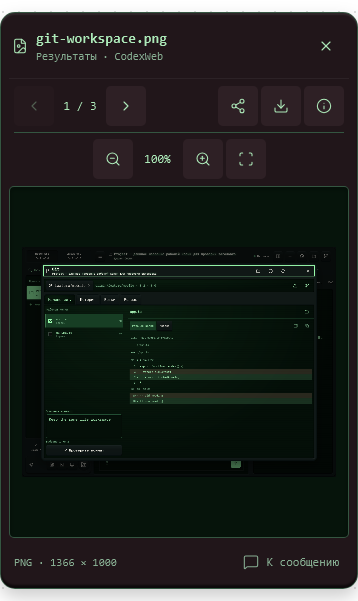
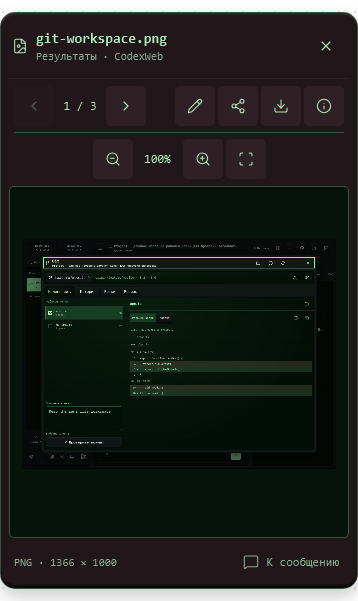
docs: define unified viewer editing and format tools

diff --git a/polish/05-files/viewer-study/viewer-study.html b/polish/05-files/viewer-study/viewer-study.html
@@ -15,11 +15,19 @@
       </div>
       <div class="vs-group vs-format-tools" aria-label="Инструменты формата"></div>
       <div class="vs-group vs-file-tools" aria-label="Действия с файлом">
-        <button type="button" data-action="edit" aria-label="Редактировать копию" data-tooltip="Редактировать копию" hidden><i data-lucide="pencil"></i></button>
+        <button type="button" data-action="edit" aria-label="Редактировать копию" aria-pressed="false" data-tooltip="Редактировать копию"><i data-lucide="pencil"></i></button>
         <button type="button" data-action="share" aria-label="Поделиться" data-tooltip="Поделиться"><i data-lucide="share-2"></i></button>
         <button type="button" data-action="save" aria-label="Сохранить файл" data-tooltip="Сохранить файл"><i data-lucide="download"></i></button>
         <button type="button" data-action="properties" aria-label="Свойства файла" aria-pressed="false" data-tooltip="Свойства"><i data-lucide="info"></i></button>
       </div>
+    </div>
+    <div class="vs-mode-rail" hidden>
+      <div class="vs-group" aria-label="Режим файла">
+        <button type="button" data-action="view" aria-pressed="false"><i data-lucide="eye" aria-hidden="true"></i>Просмотр</button>
+        <button type="button" data-action="write" aria-pressed="true"><i data-lucide="pencil" aria-hidden="true"></i>Правка</button>
+      </div>
+      <span class="vs-draft-state" role="status">Копия · без изменений</span>
+      <button type="button" data-action="saveDraft" aria-label="Сохранить копию" data-tooltip="Сохранить копию"><i data-lucide="save" aria-hidden="true"></i></button>
     </div>
     <div class="vs-body">
       <main class="vs-screen" aria-label="Содержимое файла"></main>
@@ -78,6 +86,19 @@
 #cw-viewer-study .vs-popover p{font-size:13px}
 #cw-viewer-study textarea{width:100%;height:280px;resize:vertical;font:16px/1.6 ui-monospace,monospace;background:var(--vs-paper);color:var(--vs-ink);border:1px solid var(--vs-edge);padding:12px}
 #cw-viewer-study .vs-case[data-expanded="true"] .vs-screen{min-height:460px}
+#cw-viewer-study .vs-mode-rail{display:flex;align-items:center;gap:8px;padding:5px;background:var(--vs-key);color:var(--vs-ink);border-radius:5px 5px 0 0}
+#cw-viewer-study .vs-draft-state{flex:1;text-align:right;font-size:11px;color:var(--vs-dim)}
+#cw-viewer-study .vs-format-tools{flex-wrap:wrap}
+#cw-viewer-study .vs-annotation{position:relative;width:100%;max-width:510px}
+#cw-viewer-study .vs-annotation>svg{position:absolute;inset:0;width:100%;height:100%;touch-action:none}
+#cw-viewer-study .vs-annotation[data-editing="false"]>svg{pointer-events:none}
+#cw-viewer-study .vs-annotation path{fill:none;stroke:#ffd45c;stroke-width:14;stroke-linecap:round;stroke-linejoin:round;stroke-opacity:.5}
+#cw-viewer-study .vs-annotation path[data-tool="pen"]{stroke:#ef7658;stroke-width:3;stroke-opacity:1}
+#cw-viewer-study .vs-annotation .vs-sheet{width:100%;margin:auto}
+#cw-viewer-study .vs-screen{transition:padding .18s;justify-content:flex-start}
+#cw-viewer-study .vs-screen:has(textarea){padding:8px}
+#cw-viewer-study .vs-book{align-self:stretch;white-space:pre-wrap;overflow-wrap:anywhere}
+@media(max-width:430px){#cw-viewer-study .vs-mode-rail{flex-wrap:wrap}#cw-viewer-study .vs-draft-state{min-width:70px}#cw-viewer-study .vs-mode-rail button{font-size:12px}}
 @media(max-width:650px){#cw-viewer-study .vs-wide{display:none}#cw-viewer-study .vs-toolbar{display:grid;grid-template-columns:1fr auto}#cw-viewer-study .vs-format-tools{grid-row:2;grid-column:1/-1;justify-content:center;border-top:1px solid var(--vs-edge);padding-top:6px}#cw-viewer-study .vs-file-navigation{border:0;padding:0}#cw-viewer-study .vs-body{position:relative}#cw-viewer-study .vs-properties{position:absolute;inset:0 0 0 auto;width:min(260px,100%);z-index:2;box-shadow:-5px 0 15px #0005}#cw-viewer-study .vs-screen{padding:12px;min-height:350px}#cw-viewer-study .vs-book{font-size:18px}#cw-viewer-study .vs-heading{padding-inline:3px}}
 @media(prefers-reduced-motion:reduce){#cw-viewer-study *{transition:none!important}}
 </style>
@@ -85,7 +106,10 @@
 (()=>{
 const root=document.getElementById('cw-viewer-study'),shell=root.querySelector('.vs-case'),screen=root.querySelector('.vs-screen'),tools=root.querySelector('.vs-format-tools');
 const files=[{name:'git-workspace.png',format:'PNG',kind:'image'},{name:'viewer-notes.pdf',format:'PDF',kind:'document'},{name:'chapter.md',format:'MD',kind:'book'}];
-let draftText='';
+let draftText=null;
+const sessions=files.map(()=>({active:false,dirty:false,marks:{},redo:{},tool:'marker'}));
+const textHistory=[],textRedo=[];
+let textSelection=[0,0],textScroll=0;
 const settings={theme:'green'},state={index:0,zoom:100,page:1,properties:false,source:false,editing:false};
 const saved=window.openai?.widgetState?.privateContent;
 if(saved&&Number.isInteger(saved.index)&&saved.index>=0&&saved.index<3)state.index=saved.index;
@@ -93,13 +117,66 @@ if(['green','2000','organizer','dark'].includes(saved?.theme))settings.theme=sav
 const icon=(action,label,name)=>`<button type="button" class="cursor-interaction" data-action="${action}" aria-label="${label}" data-tooltip="${label}"><i data-lucide="${name}" aria-hidden="true"></i></button>`;
 const bookText='Глава первая\n\nК вечеру мастерская опустела. На столе остались чертежи, карандаш и маленький экран с последней открытой страницей.\n\nОн убрал лишние инструменты. Теперь ничто не отвлекало от самой работы.';
 function remember(){window.openai?.setWidgetState?.({modelContent:{viewerFormat:files[state.index].format,theme:settings.theme,properties:state.properties},privateContent:{index:state.index,theme:settings.theme}})?.catch(()=>{});}
+function popover(title,text){root.querySelector('.vs-pop-title').textContent=title;root.querySelector('.vs-pop-text').textContent=text;root.querySelector('.vs-popover').hidden=false;}
+function editText(action){
+ const input=screen.querySelector('textarea');if(!input)return;
+ const before=input.value,from=input.selectionStart,to=input.selectionEnd,selected=before.slice(from,to);
+ if(action==='undo'){if(!textHistory.length)return;textRedo.push(before);draftText=textHistory.pop();}
+ else if(action==='redo'){if(!textRedo.length)return;textHistory.push(before);draftText=textRedo.pop();}
+ else{
+  const wrappers={bold:['**','**'],italic:['_','_'],link:['[','](https://)'],code:['`','`']};
+  const pair=wrappers[action];
+  const insert=pair?pair[0]+(selected||'текст')+pair[1]:({heading:'## ',list:'- ',check:'- [ ] '}[action]||'')+(selected||'текст');
+  textHistory.push(before);textRedo.length=0;draftText=before.slice(0,from)+insert+before.slice(to);textSelection=[from,from+insert.length];
+ }
+ sessions[state.index].dirty=true;render();screen.querySelector('textarea')?.focus();
+}
+function renderMode(f){
+ const s=sessions[state.index],rail=root.querySelector('.vs-mode-rail');
+ rail.hidden=!s.active;
+ root.querySelector('[data-action="edit"]').hidden=s.active;
+ root.querySelector('[data-action="view"]').setAttribute('aria-pressed',String(!state.editing));
+ root.querySelector('[data-action="write"]').setAttribute('aria-pressed',String(state.editing));
+ root.querySelector('.vs-draft-state').textContent='Копия · '+(s.dirty?'изменена':'без изменений');
+ if(f.kind==='book'&&s.active&&!state.source&&!state.editing){
+  screen.innerHTML='<article class="vs-book"></article>';screen.querySelector('article').textContent=draftText??bookText;
+ }
+ if(f.kind==='book'&&state.editing){
+  tools.innerHTML=icon('heading','Заголовок','heading-2')+icon('bold','Полужирный','bold')+icon('italic','Курсив','italic')+icon('list','Список','list')+icon('check','Задача','list-checks')+icon('link','Ссылка','link')+icon('code','Код','code')+icon('undo','Отменить изменение','undo-2')+icon('redo','Повторить изменение','redo-2');
+  const input=screen.querySelector('textarea');input.value=draftText??bookText;
+  input.setSelectionRange(...textSelection);input.scrollTop=textScroll;
+  input.onselect=()=>{textSelection=[input.selectionStart,input.selectionEnd];};
+  input.onscroll=()=>{textScroll=input.scrollTop;};
+  input.oninput=()=>{textHistory.push(draftText??bookText);textRedo.length=0;draftText=input.value;s.dirty=true;root.querySelector('.vs-draft-state').textContent='Копия · изменена';};
+ }
+ if(f.kind!=='book'){
+  const key=f.kind==='document'?state.page:0,marks=s.marks[key]??=[];
+  const wrapper=document.createElement('div');wrapper.className='vs-annotation';wrapper.dataset.editing=String(state.editing);
+  while(screen.firstChild)wrapper.append(screen.firstChild);screen.append(wrapper);
+  const ns='http://www.w3.org/2000/svg',svg=document.createElementNS(ns,'svg');
+  svg.setAttribute('viewBox','0 0 500 340');svg.setAttribute('preserveAspectRatio','none');svg.setAttribute('role','img');svg.setAttribute('aria-label','Разметка копии');
+  const paint=mark=>{const p=document.createElementNS(ns,'path');p.setAttribute('d',mark.d);p.dataset.tool=mark.tool;svg.append(p);return p;};
+  marks.forEach(paint);wrapper.append(svg);
+  if(state.editing){
+   tools.innerHTML=icon('marker','Маркер','highlighter')+icon('pen','Перо','pencil')+icon('undo','Отменить изменение','undo-2')+icon('redo','Повторить изменение','redo-2')+(f.kind==='document'?icon('pagePrevious','Предыдущая страница','chevron-left')+`<span>${state.page} / 4</span>`+icon('pageNext','Следующая страница','chevron-right'):'');
+   tools.querySelector(`[data-action="${s.tool}"]`).setAttribute('aria-pressed','true');
+   tools.querySelector('[data-action="undo"]').disabled=!marks.length;tools.querySelector('[data-action="redo"]').disabled=!(s.redo[key]?.length);
+   let drawing=null,path=null;
+   const point=e=>{const r=svg.getBoundingClientRect();return `${Math.max(0,Math.min(500,(e.clientX-r.left)*500/r.width)).toFixed(1)} ${Math.max(0,Math.min(340,(e.clientY-r.top)*340/r.height)).toFixed(1)}`;};
+   svg.onpointerdown=e=>{if(e.button!==0||drawing)return;e.preventDefault();svg.setPointerCapture(e.pointerId);drawing={tool:s.tool,d:'M '+point(e)};path=paint(drawing);};
+   svg.onpointermove=e=>{if(!drawing)return;drawing.d+=' L '+point(e);path.setAttribute('d',drawing.d);};
+   svg.onpointerup=e=>{if(!drawing)return;drawing.d+=' L '+point(e);marks.push(drawing);s.redo[key]=[];s.dirty=true;drawing=null;render();};
+   svg.onpointercancel=()=>{path?.remove();drawing=null;};
+  }
+ }
+}
 function render(){
  const f=files[state.index];shell.dataset.theme=settings.theme;
  root.querySelector('.vs-title strong').textContent=f.name;
  root.querySelector('.vs-file-number').textContent=`${state.index+1} / ${files.length}`;
  root.querySelector('[data-action="previous"]').disabled=state.index===0;root.querySelector('[data-action="next"]').disabled=state.index===files.length-1;
  root.querySelector('.vs-properties').hidden=!state.properties;root.querySelector('.vs-prop-name').textContent=f.name;root.querySelector('.vs-prop-format').textContent=f.format;
- root.querySelector('.vs-file-tools [data-action="properties"]').setAttribute('aria-pressed',String(state.properties));root.querySelector('[data-action="edit"]').hidden=f.kind!=='book';
+ root.querySelector('.vs-file-tools [data-action="properties"]').setAttribute('aria-pressed',String(state.properties));
  root.querySelector('.vs-status-format').textContent=state.editing?'Копия · черновик':f.format+(f.kind==='image'?' · 1366 × 1000':'');
  if(f.kind==='image'){
   tools.innerHTML=icon('minus','Уменьшить','zoom-out')+`<span>${state.zoom}%</span>`+icon('plus','Увеличить','zoom-in')+icon('fit','Вписать изображение','scan');
@@ -110,9 +187,10 @@ function render(){
  }else{
   tools.innerHTML=icon('source',state.source?'Режим чтения':'Исходный текст',state.source?'book-open':'code')+icon('reading','Настройки чтения','type')+icon('speech','Озвучивание','volume-2');
   if(state.editing){screen.innerHTML='<textarea aria-label="Черновик копии"></textarea>';screen.querySelector('textarea').value=draftText||bookText;screen.querySelector('textarea').oninput=e=>{draftText=e.target.value;};}
-  else if(state.source){screen.innerHTML='<pre style="white-space:pre-wrap;align-self:stretch"></pre>';screen.querySelector('pre').textContent='# '+bookText;}
+  else if(state.source){screen.innerHTML='<pre style="white-space:pre-wrap;align-self:stretch"></pre>';screen.querySelector('pre').textContent=draftText??'# '+bookText;}
   else screen.innerHTML='<article class="vs-book"><h2>Глава первая</h2><p>К вечеру мастерская опустела. На столе остались чертежи, карандаш и маленький экран с последней открытой страницей.</p><p>Он убрал лишние инструменты. Теперь ничто не отвлекало от самой работы.</p></article>';
  }
+ renderMode(f);
  if(f.kind==='document'){tools.querySelector('[data-action="pagePrevious"]').disabled=state.page===1;tools.querySelector('[data-action="pageNext"]').disabled=state.page===4;}
  root.querySelector('.vs-restore').textContent='Открыть просмотр · '+f.name;
  if(globalThis.lucide)lucide.createIcons({attrs:{width:18,height:18}});
@@ -127,7 +205,15 @@ root.addEventListener('click',e=>{
  else if(a==='pagePrevious')state.page=Math.max(1,state.page-1);
  else if(a==='pageNext')state.page=Math.min(4,state.page+1);
  else if(a==='source'&&b.closest('.vs-format-tools'))state.source=!state.source;
- else if(a==='edit')state.editing=!state.editing;
+ else if(a==='edit'||a==='write'){sessions[state.index].active=true;state.editing=true;state.source=false;}
+ else if(a==='view'){state.editing=false;state.source=false;}
+ else if(a==='marker'||a==='pen')sessions[state.index].tool=a;
+ else if(['heading','bold','italic','link','list','check','code','undo','redo'].includes(a)){
+  if(files[state.index].kind==='book'){editText(a);return;}
+  const s=sessions[state.index],key=files[state.index].kind==='document'?state.page:0,marks=s.marks[key]??=[],redo=s.redo[key]??=[];
+  if(a==='undo'&&marks.length)redo.push(marks.pop());if(a==='redo'&&redo.length)marks.push(redo.pop());s.dirty=true;
+ }
+ else if(a==='saveDraft'){popover('Сохранить копию','В приложении здесь будет выбор: скачать копию или сохранить в выбранную папку. В этом макете правки остаются только в примере; исходный файл не меняется.');return;}
  else if(a==='expand')shell.dataset.expanded=String(shell.dataset.expanded!=='true');
  else if(a==='minimize'||a==='close'){shell.hidden=true;root.querySelector('.vs-restore').hidden=false;}
  else if(a==='dismiss'){root.querySelector('.vs-popover').hidden=true;return;}

diff --git a/docs/FILE_WORKSPACE_TOOLS.md b/docs/FILE_WORKSPACE_TOOLS.md
@@ -1,0 +1,104 @@
+# Единое окно файла: просмотр, правка и инструменты
+
+Обновлено 3 октября 2026. Владелец одобрил корпус просмотрщика и уточнил:
+редактор открывается **в том же окне**, возможности сохраняются и расширяются;
+Markdown и изображения — примеры, инструменты подбираются для всех форматов,
+где они полезны. Это контракт следующего внедрения, не отчёт о его установке.
+
+## Поведение окна
+
+- Имя, источник, геометрия, док, тема и положение окна не меняются при переходе.
+  Кнопка правки включает режим и раскрывает подходящий компактный ряд инструментов.
+  Просмотр и правка показывают один текущий документ, включая несохранённые изменения.
+- «Просмотр» не означает отмену или сохранение. Курсор, выделение, Undo/Redo,
+  черновик и позиция остаются при возврате к правке. Для документов сохраняется
+  страница, для изображений — область/масштаб, для книг — позиция в тексте.
+- Инструменты принадлежат формату и активному режиму. Общие действия — источник,
+  свойства, сохранение, отправка. Не показывать карандаш там, где нет настоящего
+  поддерживаемого способа правки. Разметку называть разметкой, а не правкой текста PDF.
+- Полоса инструментов компактная, с группами по назначению, понятными иконками,
+  доступными названиями и пояснениями. Редкие параметры открываются по месту.
+  На телефоне отдельный второй ряд вместо уменьшения кнопок; без постоянной панели
+  всех инструментов всех форматов. Переход краткий, без смены корпуса и с reduced motion.
+- Стрелки подборки не выбрасывают черновик предыдущего файла. Состояние хранится
+  по точному источнику и версии, не по имени. При явном закрытии изменённого файла
+  сохраняются существующие варианты сохранить, оставить черновик, отменить изменения.
+  Сворачивание в док сохраняет всё смонтированным.
+
+## Проверенная карта форматов и целевые инструменты
+
+«Сейчас» ниже проверено по исходному коду; не означает тест на физическом устройстве.
+«Расширить» — целевой набор, а не уже действующие функции. Ни один существующий
+обработчик не удаляется ради общей панели.
+
+| Формат | Сейчас — сохранить | Расширить по назначению | Правка и сохранение |
+| --- | --- | --- | --- |
+| PNG, JPEG, WebP, AVIF, GIF | Масштаб, панорамирование, вписать, фон прозрачности | Маркер, перо, стрелка, рамка, подпись; цвет/толщина, Undo/Redo; поворот и обрезка | Неразрушающий слой пометок, экспорт копии с явным форматом. Анимация GIF/APNG/WebP не превращается молча в один кадр; отдельная команда экспорта кадра. Оригинал и прозрачность сохраняются. |
+| TXT, логи | Полное чтение, исходник, перенос, озвучивание; общий текстовый редактор | Поиск/замена, переход к строке, номера строк; сворачивание больших блоков где полезно | Тот же CodeMirror и существующие черновики/квитанции. Сохранять BOM и окончания строк; смешанные окончания не нормализовать молча. |
+| Markdown | Читалка/исходник, озвучивание; подсветка в редакторе | Заголовок, жирный/курсив, список/задача, ссылка/изображение, цитата, код, таблица; оглавление | Инструмент применяет транзакцию к выделению, единый Undo. Предпросмотр текущего черновика в том же окне; расширенный split — только по запросу и регулируемый. |
+| Код, JSON/JSONL, XML, YAML, TOML, INI/CFG, CSS, скрипты | CodeMirror, подсветка, поиск, Undo/Redo, перенос | Сворачивание блоков, переход к строке, парная скобка; для известных форматов проверка синтаксиса, затем явное форматирование | Текстовая правка без запуска кода. Форматирование отменяется и не происходит при открытии. JSONL проверяется построчно, не как один JSON. |
+| HTML | Изолированный предпросмотр и текстовый исходник | Правка исходника, обновление предпросмотра черновика; размеры области просмотра | Предпросмотр в том же корпусе, с прежней изоляцией. Не превращать его в исполняемый доверенный интерфейс Hub. |
+| PDF | Фиксированные страницы, переходы, масштаб | Поиск/выделение текста, миниатюры/оглавление; маркер, рукописные пометки, комментарии | Разметка по координатам страницы и экспорт копии. Полноценная правка существующего текста — отдельная возможность, не свойство текущего canvas-рендера. Не растрировать весь PDF молча. |
+| DOCX | Серверная подготовка страниц PDF и фиксированный просмотр; оригинальный DOCX скачивается отдельно | Поиск/оглавление; рецензирование/пометки по страницам. Затем настоящий редактор абзацев, стилей, списков, таблиц и изображений | Изменение текста только с движком, сохраняющим структуру DOCX и проверяемый круг сохранения/открытия. Размеченная PDF-копия не выдаётся за изменённый Word-файл. |
+| XLSX | Листы, размер текста, поиск, постраничная таблица, значения и просмотр формул | Выбор диапазона, копирование ячеек, закрепление шапки, фильтр/сортировка; затем значения/формулы/форматы, строки/столбцы | Нужен полноценный путь записи книги с сохранением остальных листов, формул и типов. Не выдавать текущий extractor за spreadsheet-редактор; не заменять книгу CSV при обычном сохранении. |
+| CSV/TSV | Точное текстовое редактирование и исходные байты | Табличный режим, разделитель/кавычки, шапка, поиск, фильтр; правка ячеек | Сохранять разделитель, кавычки, переносы внутри ячеек, кодировку/окончания строк. Фильтр просмотра не удаляет скрытые строки при сохранении. |
+| EPUB/FB2 | Книжные страницы, настройки чтения, позиционная озвучка и автопереход | Поиск, закладки, выделения и заметки с привязкой к фрагменту | Личные пометки отдельно от оригинальной книги. Редактор структуры EPUB/FB2 — самостоятельное расширение после проверки сохранности оглавления, изображений и метаданных. |
+| ZIP | Навигация папок, поиск, список, извлечение/просмотр отдельного файла, общее сохранение | Множественный выбор и извлечение в выбранную папку; понятные размеры | Извлечение через общий файловый процесс и выбор коллизий. Перепаковка/изменение архива только отдельной явной операцией, не побочный эффект правки извлечённой копии. |
+| SVG | Безопасный векторный просмотр, масштаб/фон; текстовая правка при поддержке редактором | Исходник и живой безопасный предпросмотр; цвет/геометрия выделенного элемента — последующее расширение | Сохранять SVG векторным. Растровая пометка на снимке — отдельная PNG-копия, не «сохранение SVG». |
+| DXF | Масштаб/перемещение, слои, монохром/усиление линий, измерение, привязки и направляющие | Координаты/единицы, пометки для обсуждения, снимок вида | Точные размеры и заметки не называются CAD-редактированием; не менять геометрию через декоративную ручку. Сохранение оригинала отдельно от снимка/пометок. |
+| STL, OBJ, 3MF, GLTF/GLB, STEP/IGES | Вращение/масштаб, проекции, сетка, габариты/единицы, существующая конвертация STEP/IGES для просмотра | Выбор объекта, измерение, сечение, снимок вида; пометки к выбранному виду | Не считать просмотренную сетку обратимо редактируемым STEP. Геометрическое редактирование/конвертация — отдельный явный путь с указанием потерь. |
+| MP3, WAV, OGG, M4A | Воспроизведение, громкость, перемотка браузерного проигрывателя | Скорость, точная позиция, A–B повтор, закладки/заметки по времени; выбор фрагмента | Обрезка/экспорт — после отдельного медиапайплайна, без скрытого перекодирования. Пока управление воспроизведением не выдаётся за монтаж. |
+| MP4, WebM | Воспроизведение, громкость, перемотка, inline-видео | Скорость, кадр вперёд где позволяет декодер, снимок кадра с разметкой, A–B повтор, заметки по времени | Снимок с пометками сохраняется отдельно; обрезка ролика требует настоящего экспорта. Не обещать покадровую точность через произвольный seek HTMLVideoElement. |
+| Неизвестные/неподдерживаемые | Метаданные, оригинал, системная отправка/скачивание | Только достоверные свойства; запуск подходящего приложения через существующее действие | Без фиктивного редактора. PowerPoint остаётся вне scope по прежнему решению владельца; исходник доступен. |
+
+## Архитектура перехода
+
+`FileViewerDialog` остаётся владельцем окна. Форматный адаптер предоставляет
+контент, инструменты и поддерживаемые режимы: просмотр, текстовая/структурная правка,
+разметка. Список режимов определяется возможностями, а не только расширением имени.
+Текущий `FilePreview`/реестр сохраняет обработчики; общая оболочка не дублирует
+пагинацию, озвучку, проигрыватель или парсер документов.
+
+`FileEditor` переносит проверенную логику CodeMirror, конфликтов, BOM/переносов,
+локальных черновиков и неопределённых квитанций во встраиваемую область. Смена режима
+не создаёт новый dialog и не пересоздаёт редактор/Undo. Источники GitHub по-прежнему
+используют проверку точного HEAD/SHA и существующий reviewSave; это не локальный файл.
+
+Разметка хранит исходные байты отдельно от операций и привязки к версии/странице/
+времени. Точки в координатах исходного содержимого, не CSS-пикселях экрана. Поворот,
+обрезка и масштаб учитываются при вводе и экспорте. Экспорт не заменяет оригинал
+без точного пути, проверки текущего fingerprint и явного действия пользователя.
+
+Working-copy сохраняется по существующему источнику и capability; Results, вложения,
+извлечённые файлы — копии с явным назначением. Все сохранения используют общий
+DownloadLink/FileCopySave и существующие квитанции/коллизии. Рабочие чаты не блокируют
+ручную правку; потерянный ответ не разрешает повторную запись новым id.
+
+## Последовательность внедрения
+
+1. Общий корпус и встраиваемый редактор: все текущие входы/форматы, режимы без нового
+   окна, сохранность инструментов/источника/позиции, компактные панели. Переносится
+   функциональность, новые сложные редакторы не имитируются.
+2. Контекстные инструменты: Markdown и код/структурный текст, неразрушающая разметка
+   изображений, применимые улучшения навигации/чтения/медиа/архивов. Отдельно проверить
+   пустой черновик, выделение, Undo, смену файлов и страницы с пометками.
+3. PDF-разметка и экспорт, табличный режим CSV/TSV. Проверить исходные байты,
+   страницы/координаты, Unicode/кавычки/переносы и round-trip сохранения.
+4. DOCX/XLSX-редакторы, книжная структура, CAD и медиамонтаж — самостоятельные
+   адаптеры с проверкой сохранности, добавляемые в тот же корпус по готовности.
+
+Это порядок реализации внутри общей функциональной карты, а не исключение остальных
+форматов из продукта. Новые неподключённые инструменты не выставляются в production.
+
+## Доказательства и границы текущего шага
+
+Исходники: `FileViewerDialog.tsx`, `ViewerEditButton.tsx`, `FileEditor.tsx`,
+`FilePreview.tsx`, `filePreviewRegistry.ts`, `PdfFilePreview.tsx`,
+`DocxFilePreview.tsx`, `PackageFilePreview.tsx`, `VectorFilePreview.tsx`,
+`DxfFilePreview.tsx`, `ModelFilePreview.tsx` в `apps/web/src`.
+
+В [эскизе](../polish/05-files/viewer-study/README.md) демонстрируются PNG/PDF/MD:
+режимы в одном корпусе, локальная разметка, текстовые инструменты, Undo/Redo,
+сохранение демонстрационного черновика при возврате. Реальные загрузка, парсинг,
+экспорт и запись в этом макете отсутствуют. PDF — пример компоновки, Markdown
+в режиме чтения — текст черновика, не полноценный Markdown-рендерер.

diff --git a/polish/05-files/viewer-study/README.md b/polish/05-files/viewer-study/README.md
@@ -2,7 +2,23 @@
 
 Это следующий этап обсуждения после Git. `viewer-study.html` — интерактивный
 эскиз компоновки, а не новая реализация просмотрщика и не установленный выпуск.
-Код приложения и сервер не изменены.
+Код приложения и сервер не изменены. Корпус одобрен владельцем; следующий
+вариант уточняет переход просмотра в правку и инструменты всех форматов.
+
+## Уточнение после одобрения
+
+[Полная карта форматов, существующих функций и расширений](../../../docs/FILE_WORKSPACE_TOOLS.md).
+Картинки и Markdown — примеры, не ограничение возможностей общего модуля.
+
+В макете карандаш добавляет режимы «Просмотр / Правка» в том же корпусе.
+PNG/PDF получают рисование маркером и пером; пометки PDF разделены по страницам.
+MD получает заголовок, жирный/курсив, список/задачу, ссылку, код и Undo/Redo.
+Пустой текст остаётся пустым; смена режима/файла, свойства, закрытие с возвратом
+сохраняют демонстрационный черновик. Сохранение копии показывает назначение,
+не записывает файл. Это не production-редактор и не PDF/Markdown-движок;
+пока без истинного экспорта, смены формата, серверных квитанций и долговременного
+хранения пометок. Сохранение состояния в пределах открытого примера не заменяет
+требования к настоящему редактору.
 
 ## Что уже общее
 
@@ -42,9 +58,12 @@
 Chromium и WebKit: четыре темы, ширины 780/390, навигация файлов/страниц, свойства,
 исходный текст и сохранение демонстрационного черновика при закрытии/возврате.
 Снимки с соседними MD в этой папке. Это браузерная проверка эскиза.
+Уточнённый вариант также проверен в обоих движках: один корпус, пустой черновик,
+Markdown-команда и Undo/Redo, рисунок и отмена/возврат штриха, независимые страницы,
+возврат к тексту после другой картинки. Ширины 320/390/780, четыре темы.
 
 Для воспроизведения создать `.local/viewer-study-preview.html` обёрткой `render.py`
 из навыка visualize, затем выполнить `node polish/05-files/viewer-study/check.mjs`.
 
-Перед внедрением обсуждаем этот каркас. При переносе не менять поведение озвучивания,
+Каркас одобрен; инструменты и переходы уточнены следующим вариантом. При переносе не менять поведение озвучивания,
 пагинации, загрузки исходных байтов и сохранения родительского окна.

diff --git a/docs/CURRENT_STATUS.md b/docs/CURRENT_STATUS.md
@@ -4,6 +4,15 @@
 версии и квитанции сохранены в [истории](STATUS_HISTORY_2026-10-02.md).
 Историческое «следующее действие» не является новой задачей.
 
+### Просмотр ↔ правка: одобренное направление, 3 октября
+
+Владелец одобрил корпус и попросил правку в том же окне, без потери функций,
+с подходящими инструментами для всех форматов. Составлена
+[карта существующих возможностей и расширений](FILE_WORKSPACE_TOOLS.md).
+Эскиз дополнен режимами, MD-инструментами и локальной разметкой PNG/PDF.
+Это интерактивное уточнение проекта: настоящие редакторы, экспорт и новая оболочка
+ещё не внедрены. Установленный веб-выпуск остаётся `7187de0`.
+
 ### Общий просмотрщик — обсуждение после Git, 3 октября
 
 Подготовлен [интерактивный эскиз](../polish/05-files/viewer-study/README.md):

diff --git a/AGENTS.md b/AGENTS.md
@@ -1,5 +1,18 @@
 # AGENTS.md
 
+## Owner-approved viewer direction and format tools (2026-10-03)
+
+- The owner approved the shared viewer chassis proposal. View and edit are modes
+  of the same window, retaining theme, geometry, exact source, draft and position;
+  editing adds contextual tools rather than opening another editor window.
+- Preserve all existing format capabilities. Images and Markdown are examples,
+  not the entire scope: choose useful tools for every supported format. See
+  `docs/FILE_WORKSPACE_TOOLS.md` for the current inventory and proposed extensions.
+- Distinguish viewing, annotations and actual structure/content editing. Do not
+  expose placeholder controls or claim DOCX/XLSX/CAD/media editing from a preview
+  extractor, rendered PDF or raster export. Preserve originals and existing save
+  receipts/conflict checks. Track source, prototype and deployment separately.
+
 ## Owner-corrected Git file entry (2026-10-03)
 
 - Git opens Files in a separate window using the same shared file manager already

diff --git a/polish/05-files/viewer-study/edit-document.md b/polish/05-files/viewer-study/edit-document.md
@@ -1,0 +1,6 @@
+# Разметка страницы
+
+WebKit, 780 px. Пример страницы PDF с пометкой в том же окне.
+Штрихи принадлежат отдельной странице: при перелистывании на чистую страницу
+не появляются, при возврате восстанавливаются. PDF-движок и экспорт здесь
+не подключены; эта проверка подтверждает только взаимодействие макета.

diff --git a/polish/05-files/viewer-study/edit-markdown.md b/polish/05-files/viewer-study/edit-markdown.md
@@ -1,0 +1,6 @@
+# Инструменты Markdown
+
+WebKit, 780 px. То же окно и источник, текстовый черновик с командами выделения:
+заголовок, жирный/курсив, список/задача, ссылка, код, Undo/Redo.
+Проверены пустой текст и сохранение черновика при переходе просмотра/правки.
+Это пример взаимодействия, не production CodeMirror или Markdown-рендерер.

diff --git a/polish/05-files/viewer-study/edit-image.md b/polish/05-files/viewer-study/edit-image.md
@@ -1,0 +1,5 @@
+# Правка изображения в том же корпусе
+
+WebKit, 780 px. Карандаш раскрывает режимы просмотра/правки и инструменты
+маркер/перо/Undo/Redo. На примере нанесён маркер, просмотр сохраняет штрих.
+Это локальная демонстрация разметки, без записи или экспорта исходного изображения.

diff --git a/polish/05-files/viewer-study/edit-phone.md b/polish/05-files/viewer-study/edit-phone.md
@@ -1,0 +1,5 @@
+# Правка на узком экране
+
+WebKit, 390 px, зелёная тема. Инструменты переносятся в отдельный ряд;
+переключатель просмотра/правки, статус копии и сохранение остаются в корпусе.
+Проверены также 320 px и остальные темы. Это браузерный макет, не проверка iPhone.
